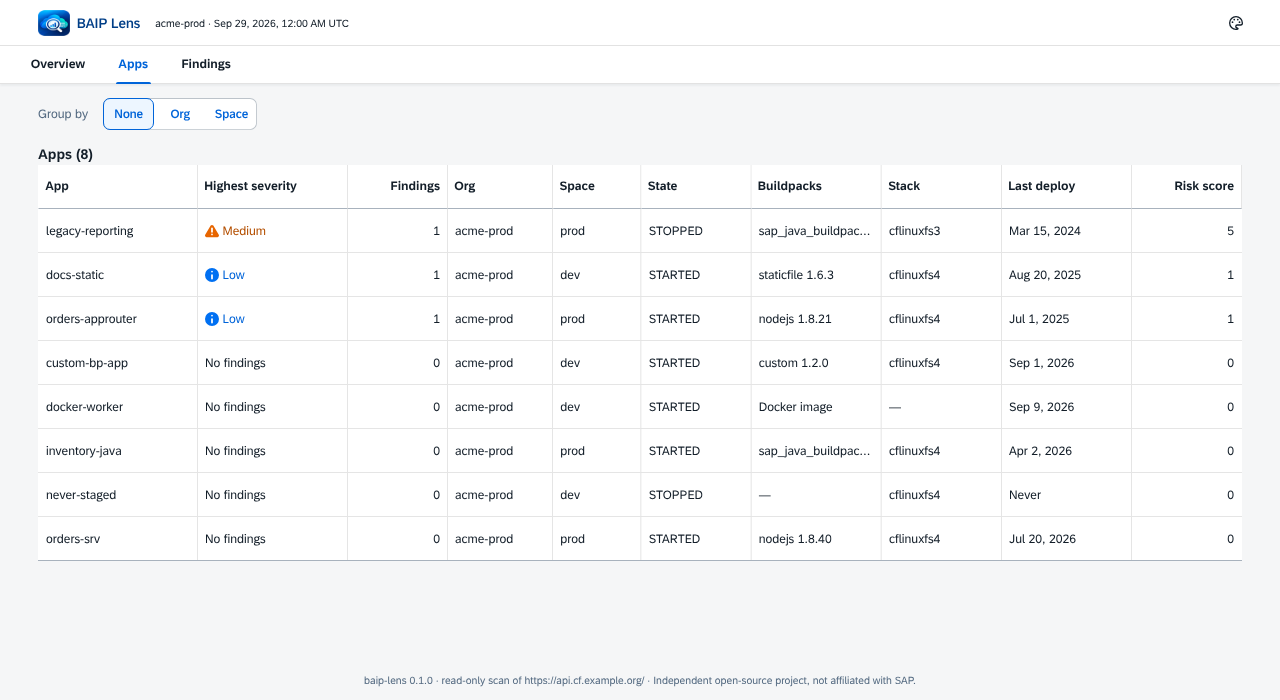
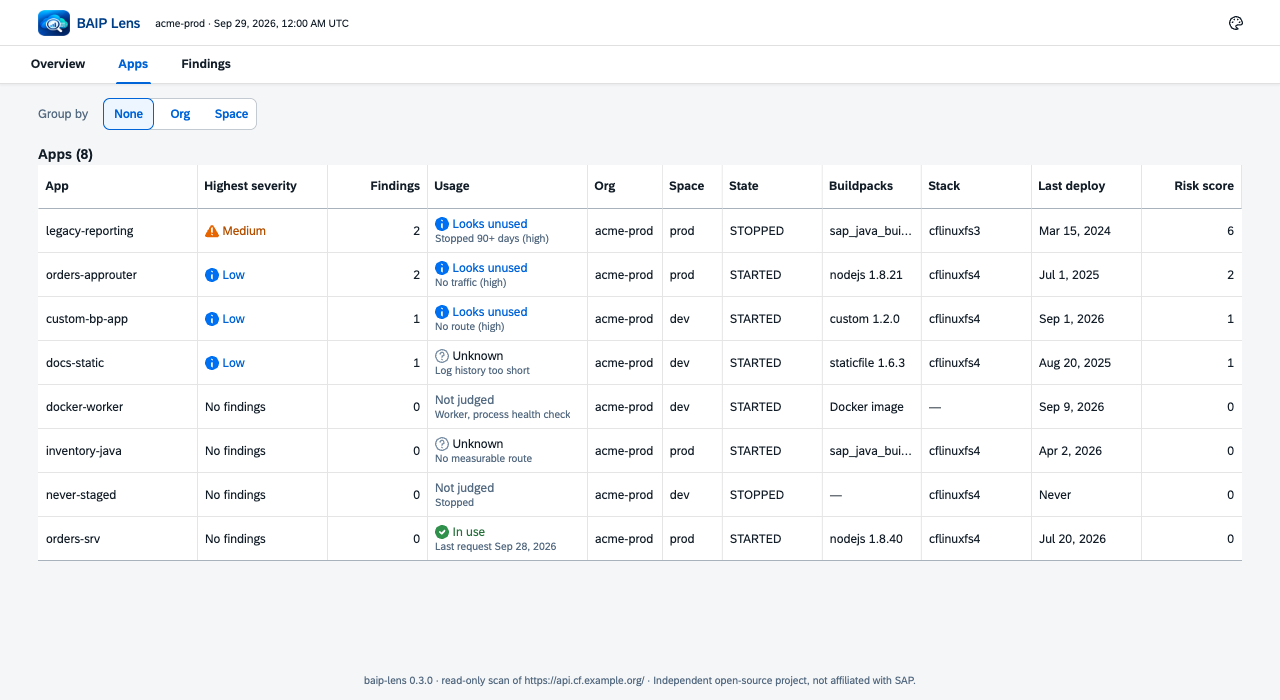
Prepare release 0.3.0
Bump both packages to 0.3.0 and date the changelog section, so the
v0.3.0 tag passes the release workflow's version and changelog gates.
Describe the release (APP_IDLE, typed regions) in the README, the
due-diligence page, the landing page and the roadmap, whose headings
are now marked as milestones rather than release numbers. Sample
fixtures and README screenshots are regenerated for the new version.

Docs that now describe 0.3.0 are brought in line with it:
- privacy.md: the Log Cache read ships in 0.3.0, not "unreleased".
- due-diligence.md: request load including the Log Cache reads,
  three runtime dependencies, Kyma as a later release, and an
  allow-list of about 200 lines.
- The no-terminal guide names the log cache among the hosts it
  contacts, and the guided-mode banner says nothing is sent outside
  your own Cloud Foundry landscape, since the traffic check also
  reads the log cache.

diff --git a/docs/marketing/landing.html b/docs/marketing/landing.html
@@ -164,9 +164,9 @@
         <div class="card">
           <h2>Every finding says what to do</h2>
           <p>
-            Today: the app inventory and deployments older than a year. Next: runtime end of life,
-            deprecated stacks, idle apps, outdated SAP libraries and known CVEs, each with a
-            remediation and a link.
+            Today: the app inventory, deployments older than a year, idle apps and a local scan of
+            CAP and MTA projects. Next: runtime end of life, deprecated stacks, outdated SAP
+            libraries and known CVEs, each with a remediation and a link.
           </p>
         </div>
         <div class="card">
@@ -186,9 +186,9 @@
       </div>
       <p>
         The sample report on this page was generated from synthetic test fixtures, not from a real
-        landscape. Version 0.2.0 covers the app inventory, stale deployments, the full report
-        pipeline and a local project scan of CAP and MTA projects. The repository has the roadmap
-        for the remaining rules.
+        landscape. Version 0.3.0 covers the app inventory, stale deployments, idle apps, the full
+        report pipeline and a local project scan of CAP and MTA projects. The repository has the
+        roadmap for the remaining rules.
       </p>
       <footer>
         BAIP Lens is an independent open-source project (Apache-2.0). It is not affiliated with,

diff --git a/packages/cli/src/guided/wizard.ts b/packages/cli/src/guided/wizard.ts
@@ -369,7 +369,7 @@ export async function runWizard(o: WizardOptions): Promise<number> {
   try {
     p.say(`${TOOL_NAME} ${TOOL_VERSION} · read-only health check for your Cloud Foundry landscape`);
     p.say(
-      'Nothing is changed in your account, and nothing is sent anywhere except your own CF API.',
+      'Nothing is changed in your account, and nothing is sent outside your own Cloud Foundry landscape.',
     );
     p.say('Press Ctrl+C at any time to stop; nothing is written until the scan starts.');
 

diff --git a/docs/due-diligence.md b/docs/due-diligence.md
@@ -1,6 +1,6 @@
 # Due diligence
 
-This page answers the questions a manager, a security officer, a legal or procurement team, or a customer asks before BAIP Lens runs against their landscape. Every answer points to the code, test or document that backs it, so you can check the claim instead of trusting it. It describes release 0.2.0. Where something is not done yet, the answer says so.
+This page answers the questions a manager, a security officer, a legal or procurement team, or a customer asks before BAIP Lens runs against their landscape. Every answer points to the code, test or document that backs it, so you can check the claim instead of trusting it. It describes release 0.3.0. Where something is not done yet, the answer says so.
 
 ## In short
 
@@ -27,7 +27,7 @@ Yes, on exactly two paths, and never to your CF API:
 | Host | Method and path | Why |
 | --- | --- | --- |
 | Your UAA (login server) | `POST /oauth/token` | Signing in or refreshing the token. OAuth requires `POST` here, and `cf login` does the same. It returns a token and changes nothing in your landscape. |
-| `api.osv.dev` | `POST /v1/querybatch` | Known-vulnerability lookups for public package names and versions, with no credentials. It is on the allow-list for a coming release; **0.2.0 never calls it.** |
+| `api.osv.dev` | `POST /v1/querybatch` | Known-vulnerability lookups for public package names and versions, with no credentials. It is on the allow-list for a coming release; **0.3.0 never calls it.** |
 
 `PUT`, `PATCH` and `DELETE` are not in the type at all, so the code cannot express them.
 
@@ -37,7 +37,7 @@ The first layer still holds: a Space Auditor user cannot change anything, whatev
 
 ### Does it put load on the platform or hit rate limits?
 
-Hardly. A scan of an org with fewer than 5000 apps needs fewer than ten requests, because every list is read with 5000 items per page. BAIP Lens sends at most 5 requests at a time (`--concurrency`, 1 to 20), honors `Retry-After`, backs off on errors, and slows down on its own when the `X-RateLimit-*` headers say the budget is running low. SAP documents the CF API limit on BTP in the range of tens of thousands of requests per hour per user ([data-sources.md §1.4](data-sources.md)).
+Hardly. Without the traffic check, a scan of an org with fewer than 5000 apps needs about ten CF API requests, because every list is read with 5000 items per page (routes 50 spaces at a time). The traffic check of `APP_IDLE`, on by default, adds Log Cache reads for each started app with an HTTP route, two apps at a time: one read, or up to `--traffic-pages` (default 5) plus one. Log Cache checks each app with Cloud Controller under your user, so these reads also count against your CF API rate limit ([rules.md](rules.md#app_idle)); `--no-traffic-check` turns them off. BAIP Lens sends at most 5 requests at a time (`--concurrency`, 1 to 20), honors `Retry-After`, backs off on errors, and slows down on its own when the `X-RateLimit-*` headers say the budget is running low. SAP documents the CF API limit on BTP in the range of tens of thousands of requests per hour per user ([data-sources.md §1.4](data-sources.md)).
 
 ### Does it install or create anything in our subaccount?
 
@@ -121,7 +121,7 @@ On ownership: the maintainer publishes the project under Apache-2.0. Where a par
 
 Yes. All software can, whoever writes it, and a tool that claims otherwise is not being honest. What matters is how small the exposure is and how fast problems are found and fixed:
 
-- **Small attack surface:** two runtime dependencies (`commander` and `zod`), no server, no listening port, no stored credentials.
+- **Small attack surface:** three runtime dependencies (`commander`, `yaml` and `zod`), no server, no listening port, no stored credentials.
 - **Limited worst case:** the token it holds is a read-only one, and the program sends it to your CF API and its log cache only.
 - **Continuous checks:** CodeQL, gitleaks, dependency review and Dependabot run on the repository. `npm audit` reported no known vulnerabilities in the dependency tree on 2026-10-11.
 - **Public threat model and review:** the [security review](security-review.md) lists every item with its status, including the ones still open.
@@ -140,7 +140,7 @@ The route probe planned for the SAPUI5 rule must not ship without its guards aga
 
 ### How do we know the npm package is the code on GitHub?
 
-Releases are built and published by a GitHub Actions workflow, not from a laptop, with **npm provenance**. The package on npm carries a signed SLSA provenance statement that links it to the commit and the workflow that built it, and the npm page shows that link. To verify it, install the package in an empty folder and run `npm audit signatures`. Pin the version you reviewed (`npx baip-lens@0.2.0`) instead of whatever is latest, or install it from your company's registry mirror after review. The published package contains only `dist`, `README.md`, `LICENSE` and `NOTICE`, and the release workflow fails if anything else would ship.
+Releases are built and published by a GitHub Actions workflow, not from a laptop, with **npm provenance**. The package on npm carries a signed SLSA provenance statement that links it to the commit and the workflow that built it, and the npm page shows that link. To verify it, install the package in an empty folder and run `npm audit signatures`. Pin the version you reviewed (`npx baip-lens@0.3.0`) instead of whatever is latest, or install it from your company's registry mirror after review. The published package contains only `dist`, `README.md`, `LICENSE` and `NOTICE`, and the release workflow fails if anything else would ship.
 
 ### Has it had an independent penetration test?
 
@@ -170,17 +170,18 @@ No, and those certifications would not apply in the usual way. They certify an o
 
 ## Maturity, support and continuity
 
-### What does 0.2.0 actually check? Is it ready?
+### What does 0.3.0 actually check? Is it ready?
 
-0.2.0 is aimed at developers and platform teams. Against a Cloud Foundry org it does three things:
+0.3.0 is aimed at developers and platform teams. Against a Cloud Foundry org it does four things:
 
 - It inventories every app in the org with its state, buildpacks, stack and current droplet.
-- It applies one rule, `APP_NO_RECENT_DEPLOY`: the last deployment is older than 12 months.
+- It applies `APP_NO_RECENT_DEPLOY`: the last deployment is older than 12 months.
+- It applies `APP_IDLE`: apps that nothing seems to use, because they are started with no route, no request reached them in the router logs that Log Cache holds, or they have been stopped for more than 90 days. Each finding carries a confidence, and an app the data cannot judge is shown as unknown, never as fine. One scan sees only the hours of logs Log Cache keeps; `scan --previous` builds a longer view across scans ([rules.md](rules.md#app_idle)).
 - It writes HTML, JSON, CSV and SARIF reports.
 
 Since 0.2.0, `baip-lens project --path <dir>` checks a local CAP or MTA project against thirteen configuration and model rules tagged with the OWASP Top 10 (2025) categories, without any login or network access ([rules.md](rules.md#project-rules), [privacy.md](privacy.md#project-scans)).
 
-The other rules and the `sbom` command are designed and documented in [rules.md](rules.md) and arrive in the next releases ([roadmap](roadmap.md)). Those rules cover end-of-life runtimes and stacks, outdated buildpacks, idle apps, SAPUI5 maintenance, outdated `@sap/*` packages, known CVEs and plain-text secrets. Treat 0.2.0 as an inventory and a first health signal, not as a full security assessment.
+The other rules and the `sbom` command are designed and documented in [rules.md](rules.md) and arrive in the next releases ([roadmap](roadmap.md)). Those rules cover end-of-life runtimes and stacks, outdated buildpacks, SAPUI5 maintenance, outdated `@sap/*` packages, known CVEs and plain-text secrets. Treat 0.3.0 as an inventory and a first health signal, not as a full security assessment.
 
 ### How reliable are the results?
 
@@ -200,7 +201,7 @@ It complements them. Scanners in your CI pipeline look at source repositories; B
 
 ### Which environments does it support?
 
-- **Platforms:** Cloud Foundry on SAP BTP, in any region. Kyma support is planned for v0.3. Neo and the ABAP environment are out of scope.
+- **Platforms:** Cloud Foundry on SAP BTP, in any region. Kyma support is planned for a later release ([roadmap](roadmap.md)). Neo and the ABAP environment are out of scope.
 - **Operating systems:** Windows, macOS and Linux, with Node.js 22.12 or later.
 - **Networks:** it works behind a corporate proxy (`HTTPS_PROXY` with `NODE_USE_ENV_PROXY=1`, on Node.js 22.21 or 24 and later), and behind a TLS-inspecting proxy once you add your company's CA with `NODE_EXTRA_CA_CERTS`.
 - **Sign-in and automation:** it works with single sign-on (a one-time code, like `cf login --sso`) and in CI (a token or an OAuth client, `--fail-on`, SARIF output).
@@ -209,16 +210,16 @@ It complements them. Scanners in your CI pipeline look at source repositories; B
 
 About 30 minutes for a technical reviewer:
 
-1. **Read the gate.** [`packages/cli/src/net/allowlist.ts`](../packages/cli/src/net/allowlist.ts) is under 200 lines, and it decides every host, method and path the tool may use.
+1. **Read the gate.** [`packages/cli/src/net/allowlist.ts`](../packages/cli/src/net/allowlist.ts) is about 200 lines, and it decides every host, method and path the tool may use.
 2. **Run the tests** on the release you plan to use:
 
    ```sh
    git clone https://github.com/sebastianomarchesini/BAIP-Lens.git && cd BAIP-Lens
-   git checkout v0.2.0
+   git checkout v0.3.0
    npm ci --ignore-scripts && npm run build && npm test
    ```
 
-3. **Verify the package.** In an empty folder, run `npm install baip-lens@0.2.0 && npm audit signatures`. It should report verified registry signatures and attestations.
+3. **Verify the package.** In an empty folder, run `npm install baip-lens@0.3.0 && npm audit signatures`. It should report verified registry signatures and attestations.
 4. **Use a minimal user.** Create a technical user with Space Auditor on a non-production space, and run the first scan with it.
 5. **Watch the traffic.** Run a scan through your company proxy, or through an inspecting proxy on your machine (set `HTTPS_PROXY`, `NODE_USE_ENV_PROXY=1`, and `NODE_EXTRA_CA_CERTS` pointing to the proxy's CA), and read its log. It should show only `GET` requests to your CF API host, `GET /api/v1/read/<app-guid>` requests to your log cache host (none with `--no-traffic-check`) and `POST /oauth/token` to your UAA or login host.
 6. **Open the report offline.** Disconnect the network and open the HTML file. It works, and the browser's developer tools show no network request.

diff --git a/docs/roadmap.md b/docs/roadmap.md
@@ -2,6 +2,8 @@
 
 Public and revised at every minor release. Ordered, not dated: dates depend on how many people help. Everything here is and stays Apache-2.0; there is no paid tier.
 
+The headings below are milestones, not release numbers: releases 0.2.0 and 0.3.0 shipped the items marked as released under v0.1, and the v0.1.1, v0.2 and v0.3 milestones are still open.
+
 Propose a change by opening an issue. Rules go through the "Rule proposal" template.
 
 ## v0.1
@@ -14,19 +16,24 @@ Released as 0.1.0 on 2026-10-10:
 - [x] Guided mode (`baip-lens` with no arguments), `baip-lens doctor`, "Start here" panel
 - [x] Security review, disclosure policy, CSP-protected report, CI with gitleaks, CodeQL and Scorecard
 
-Moved to the 0.1.x and 0.2 releases:
+Moved to later releases:
 
-- [ ] Rules: `RUNTIME_NODE_EOL`, `RUNTIME_JAVA_EOL` (endoflife.date), `BUILDPACK_OUTDATED`, `STACK_DEPRECATED`, `APP_IDLE` (done: no route, traffic with history across scans, stopped), `UI5_OUT_OF_MAINTENANCE`, `SAP_PKG_OUTDATED`, `DEP_KNOWN_CVE` (OSV.dev), `ENV_SECRET_PLAINTEXT` (`--deep`)
+- [ ] Rules: `RUNTIME_NODE_EOL`, `RUNTIME_JAVA_EOL` (endoflife.date), `BUILDPACK_OUTDATED`, `STACK_DEPRECATED`, `APP_IDLE` (released in 0.3.0), `UI5_OUT_OF_MAINTENANCE`, `SAP_PKG_OUTDATED`, `DEP_KNOWN_CVE` (OSV.dev), `ENV_SECRET_PLAINTEXT` (`--deep`)
 - [ ] `baip-lens sbom` from `package-lock.json`, `pom.xml`, `mta.yaml` and `.mtar`
 - [ ] `report --redact` so people can share screenshots
 - [ ] Route probe for the UI5 version with the SSRF guards from the security review
 - [ ] Three usability sessions with non-developers (0.1.0 shipped without them, for developers and platform teams; due before 0.1.1)
 - [x] npm publish with provenance; GitHub release with changelog (tag-triggered `release.yml`)
 
-Done since 0.1.0 (unreleased, see the [changelog](../CHANGELOG.md)):
+Released as 0.2.0 on 2026-11-07:
 
 - [x] `baip-lens project --path <dir>`: a read-only scan of a local CAP or MTA project with thirteen rules derived from the OWASP Top 10 (2025) patterns of the SAP TechEd 2026 XP261 workshop, OWASP tags on every rule, a criticality matrix, `file:line` locations in the reports and SARIF
-- [x] XSUAA scope analysis for the project scan (`CAP_ROLE_NOT_IN_XSUAA`, `XSUAA_SCOPE_UNUSED`); the Cloud Foundry side (bound xsuaa instances) stays in v0.2
+- [x] XSUAA scope analysis for the project scan (`CAP_ROLE_NOT_IN_XSUAA`, `XSUAA_SCOPE_UNUSED`); the Cloud Foundry side (bound xsuaa instances) is still open, under v0.2 below
+
+Released as 0.3.0 on 2026-11-17 (see the [changelog](../CHANGELOG.md)):
+
+- [x] `APP_IDLE`: started with no route, no request in the router logs that Log Cache holds, or stopped for more than 90 days; history across scans with `scan --previous`
+- [x] Guided mode asks for the region as text, and `baip-lens regions` lists the regions
 
 ## v0.1.1
 

diff --git a/README.md b/README.md
@@ -20,9 +20,9 @@ It sends only `GET` requests to the Cloud Foundry API. It contacts no third part
 [![OpenSSF Scorecard](https://api.scorecard.dev/projects/github.com/sebastianomarchesini/BAIP-Lens/badge)](https://scorecard.dev/viewer/?uri=github.com/sebastianomarchesini/BAIP-Lens)
 -->
 
-> **Status: 0.2.0.** The project is now BAIP Lens (npm package `baip-lens`; the former `btp-lens` is deprecated). This release adds `baip-lens project --path <dir>`, a local scan of a CAP or MTA project against thirteen OWASP-tagged rules with no login and no network, next to the Cloud Foundry scan with guided mode, the app inventory, the `APP_NO_RECENT_DEPLOY` rule, all report formats and the HTML report. The other rules are planned in [docs/rules.md](docs/rules.md) and the [roadmap](docs/roadmap.md). Feedback from real landscapes is very welcome in the issues.
+> **Status: 0.3.0.** This release adds the `APP_IDLE` rule: apps that nothing seems to use, because they are started with no route, no request reached them in the router logs that Log Cache holds (confirmed across scans with `scan --previous`), or they have been stopped for more than 90 days. Guided mode now asks for the region as text, and `baip-lens regions` lists the regions. They join the Cloud Foundry scan with guided mode, the app inventory, the `APP_NO_RECENT_DEPLOY` rule, the local scan of a CAP or MTA project against thirteen OWASP-tagged rules (`baip-lens project --path <dir>`, no login and no network), all report formats and the HTML report. The npm package is `baip-lens`; the former `btp-lens` is deprecated. The other rules are planned in [docs/rules.md](docs/rules.md) and the [roadmap](docs/roadmap.md). Feedback from real landscapes is very welcome in the issues.
 >
-> This first release is aimed at **developers and platform teams**. Guided mode and the no-terminal guide were written for non-developers but have not yet been tested with them in usability sessions; those sessions are planned for 0.1.1. If you are not a developer and try it anyway, every hesitation you report is a contribution.
+> This release is aimed at **developers and platform teams**. Guided mode and the no-terminal guide were written for non-developers but have not yet been tested with them in usability sessions; those sessions are still to come (see the [roadmap](docs/roadmap.md)). If you are not a developer and try it anyway, every hesitation you report is a contribution.
 
 ![Overview of a sample report](docs/images/report-overview-light.png)
 

diff --git a/docs/getting-started-no-terminal.md b/docs/getting-started-no-terminal.md
@@ -41,8 +41,8 @@ npx baip-lens
 The first time, `npx` asks whether it may download `baip-lens`. Type `y` and press Enter. Then the guided mode starts:
 
 ```
-baip-lens 0.2.0 · read-only health check for your Cloud Foundry landscape
-Nothing is changed in your account, and nothing is sent anywhere except your own CF API.
+baip-lens 0.3.0 · read-only health check for your Cloud Foundry landscape
+Nothing is changed in your account, and nothing is sent outside your own Cloud Foundry landscape.
 Press Ctrl+C at any time to stop; nothing is written until the scan starts.
 ```
 
@@ -105,7 +105,7 @@ Still stuck? [Open a question](https://github.com/sebastianomarchesini/BAIP-Lens
 ## What BAIP Lens does not do
 
 - It does not change, restart, or deploy anything. It only sends read requests.
-- It does not send your data anywhere. The only servers it contacts are your own Cloud Foundry API and login server, plus three public reference sites for version information. See [privacy.md](privacy.md).
+- It does not send your data anywhere. The only servers it contacts are your own Cloud Foundry API, its login server and its log cache (to see when each app last served a request). See [privacy.md](privacy.md).
 - It does not record who you are. Your name and e-mail never appear in a report.
 
 *BAIP Lens is an independent open-source project, not affiliated with SAP SE.*

diff --git a/docs/privacy.md b/docs/privacy.md
@@ -17,7 +17,7 @@ BAIP Lens runs on your machine and writes files to your disk. This page lists wh
 | --- | --- | --- | --- |
 | Your CF API (`--api`) | inventory | `GET` only, with your token | 0.1.0 |
 | Your UAA or login server (from the CF root) | sign-in, token refresh or client credentials | `POST /oauth/token` only | 0.1.0 |
-| Your log cache (from the CF root, never guessed from the API host) | when each app last served a request (`APP_IDLE`) | `GET /api/v1/read/<app-guid>` only, with your token, for apps with an HTTP route | unreleased; `--no-traffic-check` turns it off |
+| Your log cache (from the CF root, never guessed from the API host) | when each app last served a request (`APP_IDLE`) | `GET /api/v1/read/<app-guid>` only, with your token, for apps with an HTTP route | 0.3.0; `--no-traffic-check` turns it off |
 | `api.osv.dev` | known vulnerabilities | public package names and versions from your SBOM | planned |
 | `endoflife.date` | runtime end-of-life dates | product names such as `nodejs` | planned |
 | `ui5.sap.com` | UI5 maintenance status | a request for `/versionoverview.json` | planned |

diff --git a/docs/ease-of-use.md b/docs/ease-of-use.md
@@ -38,7 +38,7 @@ Running `npx baip-lens` with no arguments (or `baip-lens` with no subcommand in 
 
 ```
 BAIP Lens  ·  read-only health check for your Cloud Foundry landscape
-Nothing is changed in your account and nothing is sent anywhere except your CF API.
+Nothing is changed in your account and nothing is sent outside your own Cloud Foundry landscape.
 
 Step 1 of 5 · Where is your landscape?
   Paste the "API Endpoint" from the BTP cockpit (Subaccount → Overview → Cloud Foundry Environment)

diff --git a/CHANGELOG.md b/CHANGELOG.md
@@ -1,6 +1,6 @@
 # Changelog
 
-## Unreleased
+## 0.3.0 (2026-11-17)
 
 ### Added
 
